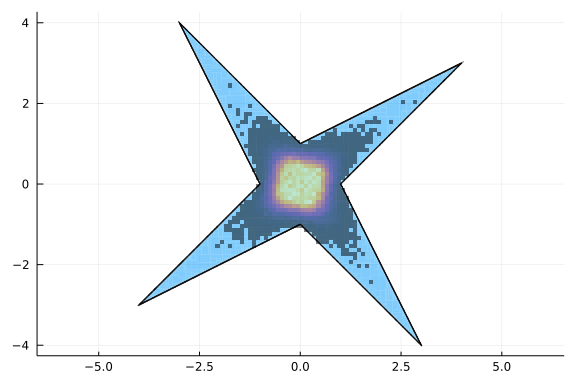
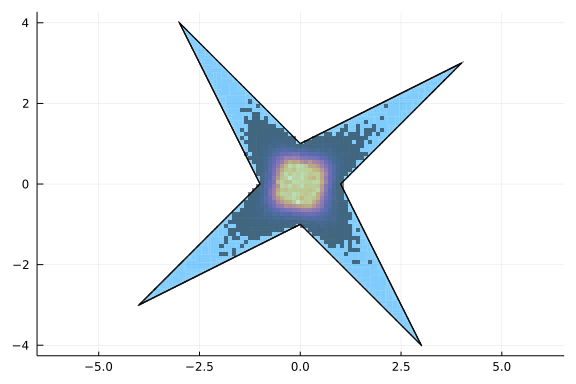
updated gsoc blogpost

diff --git a/posts/2021/06/gsoc_blog1.md b/posts/2021/06/gsoc_blog1.md
@@ -51,7 +51,7 @@ $$
 but
 
 $$
-A_1=\begin{bmatrix}
+A_2=\begin{bmatrix}
 2&0\\
 1.5&8
 \end{bmatrix} \notin \mathbf{A}
@@ -68,14 +68,14 @@ $$
 
 where $\mathbf{A}\in\mathbb{I}\mathbb{R}^{n\times n}$ and $\mathbf{b}\in\mathbb{I}\mathbb{R}^n$.
 
-Now it's legittimate to ask the question: what does it mean to solve an interval linear system, in other words, what is $\mathbf{x}$? It is
+Now it's legitimate to ask the question: what does it mean to solve an interval linear system, in other words, what is $\mathbf{x}$? It is
 defined as
 
 $$
 \mathbf{x} = \{x \in \mathbb{R}^n | Ax=b \text{ for some } A\in\mathbf{A}, b\in\mathbf{b} \}
 $$
 
-in other words $x$ is the set of solutions of the real linear systems $Ax=b$ for which $ A\in\mathbf{A}$ and $b\in\mathbf{b}$.
+in other words $\mathbf{x}$ is the set of solutions of the real linear systems $Ax=b$ for which $ A\in\mathbf{A}$ and $b\in\mathbf{b}$.
 Again, the interval linear system can be thought as a set of real linear systems. 
 The solution of the interval linear system is the set of solutions of the real linear systems in the interval system.
 
@@ -98,34 +98,34 @@ $$
 $$
 
 first let us import `IntervalArithmetic.jl` to define the matrix and vector.
+Since we are planning to solve several thousands of instances of the interval problem and we are working with small arrays, we can use [StaticArrays.jl](https://github.com/JuliaArrays/StaticArrays.jl) to speed up the computations.
 
 ```julia
-using IntervalArithmetic
+using IntervalArithmetic, StaticArrays 
 
-A = [2..4 -2..1; -1..2 2..4]
-b = [-2..2, -2..2]
-@show A, b
+A = @SMatrix [2..4 -2..1; -1..2 2..4]
+b = @SVector [-2..2, -2..2]
 ```
 
 ```
-(A, b) = (Interval{Float64}[[2, 4] [-2, 1]; [-1, 2] [2, 4]], Interval{Float
-64}[[-2, 2], [-2, 2]])
-(Interval{Float64}[[2, 4] [-2, 1]; [-1, 2] [2, 4]], Interval{Float64}[[-2, 
-2], [-2, 2]])
+2-element StaticArrays.SVector{2, Interval{Float64}} with indices SOneTo(2)
+:
+ [-2, 2]
+ [-2, 2]
 ```
 
 
 
 
 
-Now we need a function to sample from an intervals
+To perform Montecarlo, we need to sample from the intervals. This can be achieved using the `rand` function, for example 
 
 ```julia
-sample(x) = rand()*(sup(x) - inf(x)) + inf(x)
+rand(1..2)
 ```
 
 ```
-sample (generic function with 1 method)
+1.6291348873684761
 ```
 
 
@@ -137,31 +137,31 @@ we are now ready for our montecarlo simulation, let us solve $100000$ random ins
 ```julia
 N = 100000
 
-xs = [sample.(A)\sample.(b) for _ in 1:N]
+xs = [rand.(A)\rand.(b) for _ in 1:N]
 ```
 
 ```
-100000-element Vector{Vector{Float64}}:
- [0.3675588743168303, 0.28164434880716016]
- [-0.16532451692481342, -0.14094324290017501]
- [-0.49430847122193655, -0.34028913779324355]
- [0.49587754910595727, -0.06771426545272717]
- [0.26928278788575294, -0.7190682638766965]
- [0.5231931726314687, -0.4843086454609057]
- [0.6198610291052782, -0.20380178164383136]
- [-0.10539770299004424, 0.5371501041198676]
- [0.811761821912226, 0.4442893649050811]
- [0.2784681968502335, 0.54703603897014]
+100000-element Vector{StaticArrays.SVector{2, Float64}}:
+ [-0.44889606428857604, 0.3928096488422731]
+ [0.7961509062448051, 0.21261565245738948]
+ [-0.21652683334642917, -0.14026594625705752]
+ [0.2780614734829664, -0.08300975077387636]
+ [-0.09553601785839375, -0.9070371038176132]
+ [0.4054651040742707, 0.40021765448010016]
+ [-0.8137129912700739, -0.177550318111634]
+ [0.2822411518015633, 0.250135048167971]
+ [-0.15235580069558002, 0.2310472175067912]
+ [-0.23406607169530733, 0.5566371448674734]
  ⋮
- [-0.1550285530472463, -0.12110935725403765]
- [-0.39791200107041474, 0.4930013023034729]
- [0.5361702873438308, 0.5205224155092559]
- [-0.010689597217576756, 0.7866615006899088]
- [0.8207604054068416, 0.4611005234633163]
- [0.025012938922391776, -0.689159868674039]
- [-0.8388763270895144, 0.6263685003924494]
- [-0.018497350801918916, -0.3739913473763062]
- [0.052494370273044044, -0.8244398045111828]
+ [0.19690305714223466, -0.16718205313829992]
+ [0.03447064311292888, -0.6304584802868007]
+ [0.18876670332677647, 0.19224372028424622]
+ [0.4736864339328689, 0.08625234706181056]
+ [-0.17587467167618367, 0.5901451469686299]
+ [0.1383723642923509, 0.6101938606469426]
+ [0.187315914769036, 0.045985125281754205]
+ [0.2638363596614852, -0.22754940002799534]
+ [-0.5025052110421537, -0.28679114075137596]
 ```
 
 
@@ -185,7 +185,7 @@ scatter(x, y, leg=false, ratio=1, alpha=0.5)
 
 Looks a little messy, let us plot  2D-histogram instead
 ```julia
-histogram2d(x, y)
+histogram2d(x, y, ratio=1)
 ```
 
 ![](/posts/2021/06/figures/gsoc_blog1_5_1.png)
@@ -299,16 +299,15 @@ was pretty disappointing.
 
 ## Conclusions
 
-we have discussed what an interval linear system is and observed that it solution set
+We have discussed what an interval linear system is and observed that it solution set
 can have a complex non-convex shape. We also gave a theorem that can be used to characterize
-the solution of the interval linear system. However, there are a couple of open entry_point_and_project_file_inside
+the solution of the interval linear system. However, there are a couple of open issues
 
 - how do we find the starting enclosure?
 - Oettli-Präger becomes unpractical in higher dimensions
 
 both points can be summarized into one
 
-- how can we find a tight interval box (a vector of intervals) containing the solution of the
-interval linear system?
+- how can we find a tight interval box (a vector of intervals) containing the solution of the interval linear system?
 
 The answer of this question will be the topic of the next blog entry. Stay tuned!
